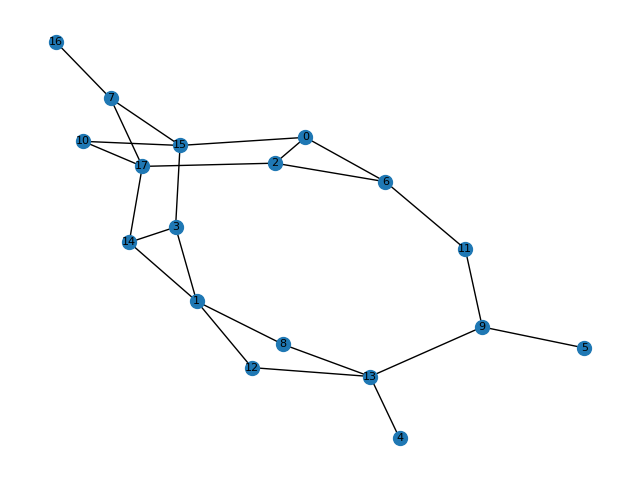
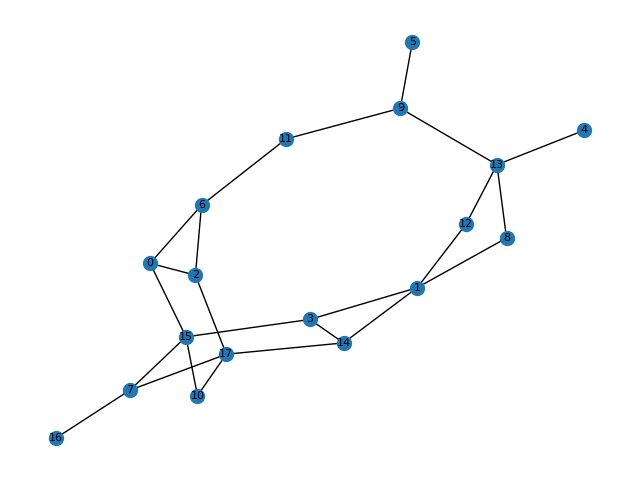
done

diff --git a/main.py b/main.py
@@ -267,7 +267,7 @@ for key, value in reversed(graphs.items()): # functions and os.makedirs() in tha
     """
 
     # print(-edge_crossings(ind), node_node_dist(ind)[0], node_node_dist(ind)[1], edge_length_var(ind), node_edge_dist(ind), edge_angle_var(ind))
-    return edge_crossings(ind),\
+    return -edge_crossings(ind),\
           -weights[0] * node_node_dist(ind)[0]\
           +weights[1] * node_node_dist(ind)[1]\
           -weights[2] * edge_length_var(ind)\
@@ -343,7 +343,7 @@ for key, value in reversed(graphs.items()): # functions and os.makedirs() in tha
   G.add_nodes_from(nodes)
   G.add_edges_from(edges)
 
-  # subfolder NEW-RESULTS/.../hof
+  # subfolder NEW-RESULTS/.../...
   best_individual = hof.items[0]
   best_layout = graph_layout(best_individual)
   nx.draw(G, pos=best_layout, with_labels=True, node_size=100, font_size=8)

diff --git a/README.md b/README.md
@@ -56,24 +56,26 @@ Description in Polish:
     * operator mutacji: mutGaussian, mu=0, sigma=1, indpb=0.2
     * metoda selekcji: selTournament(tournsize=3)
     * wagi w funkcji dopasowania:
-        * wariancja dlugosci krawedzi: 
-        * maksymalizacje minimalnej dlugosci wierzcholka od krawedzi POPRAWIC TO!
-        * wariancja odleglosci miedzy wierzcholkami:
-        * minimalna odleglosci miedzy wierzcholkami:
-        * minimalny kat miedzy krawedziami wychodzacymi z danego wierzcholka:
+        * wariancja odleglosci miedzy wierzcholkami: -1
+        * minimalna odleglosci miedzy wierzcholkami: +100
+        * wariancja dlugosci krawedzi: -100
+        * minimalna odleglosc wierzcholka od krawedzi: +1
+        * minimalny kat miedzy krawedziami wychodzacymi z danego wierzcholka: +100
 
+    Najlepszy wynik znajduje sie w folderze best-layout.
 
-    Ogolnie, algorytm lepiej sobie radzi przy malej populacji i duzej liczbie generacji. Bardzo duze znaczenie mialo rowniez dobranie
+    Ogolnie, algorytm lepiej sobie radzi przy malej populacji i duzej liczbie generacji. Bardzo duze znaczenie mialo rowniez dobranie odpowiednich wag w funkcji dopasowania. Oczywiscie, juz samo wprowadzenie dodatkowych parametrow, korzystajac z domyslnych wag, [1, 1, 1, 1, 1], mialo duzy wplyw na wyglad utworzonych grafow (wygladaly one znacznie lepiej niz z jedynm parametrem - liczba przeciec krawedzi), ale po przeprowadzeniu wielu eksperymentow, doszlismy do
+    kombinacji wag, ktora daje jeszcze lepsze rezultaty ([1, 100, 100, 1, 100]).
 
     Jako wynik ostateczny, bierzemy pierwszego osobnika z HallOfFame, czyli najlepszego osobnika z wszystkich generacji.
 
-    Wyniki dla innych konfiguracji umieszczone sa w folderach "OLD-RESULTS" i "NEW-RESULTS". W nazwie folderu sa wartosci kolejnych parametrow dla okreslonej konfiguracji. W srodku sa grafiki z rozlozeniami roznych grafow po wykonaniu algorytmu. Wyniki sprzed wykonania algorytmu (losowe rozlozenia grafu) i wyniki z gotowej biblioteki (NetworkX) dla porownania sa dostepne w folderach "random-layouts" i "nx-layouts".
+    Wyniki dla innych konfiguracji umieszczone sa w folderach "OLD-RESULTS" i "NEW-RESULTS" oraz "NEW-NEW-RESULTS". W nazwie folderu sa wartosci kolejnych parametrow dla okreslonej konfiguracji. W srodku sa grafiki z rozlozeniami roznych grafow po wykonaniu algorytmu. Wyniki sprzed wykonania algorytmu (losowe rozlozenia grafu) i wyniki z gotowej biblioteki (NetworkX) dla porownania sa dostepne w folderach "random-layouts" i "nx-layouts".
 
     Zdajemy sobie sprawe z tego, ze mozliwych kombinacji jest o wiele wiecej i ze pewnie nie osiagnelismy optimum. Czas wykonania algorytmu dla wszystkich grafow jest jednak na tyle dlugi, ze trzeba bylo sie w jakis sposob ograniczyc. Dlatego tez eksperymentowalismy glownie z roznymi rozmiarami populacji / iloscia generacji / funkcja dopasowania / pp. mutacji i krzyzowania, a operatory mutacji i krzyzowania dobralismy na samym poczatku i zostawili potem bez zmian.
 
 7. Wnioski:
 
-    Podsumowujac, program radzi sobie calkiem dobrze. Zalezy to oczywiscie od grafu, np. dla grafu "star" radzi sobie
+    Podsumowujac, program radzi sobie dobrze. Zalezy to oczywiscie od grafu, np. dla grafu "star" radzi sobie
     dosc slabo - nie ma przeciec, ale graf nie wyglada ladnie. To jest jednak prosty przypadek, dla ktorego latwo znalezc
     dobre rozwiazanie, korzystajac np. z biblioteki NetworkX i spring_layout() lub nawet rysujac graf samemu. typu. Dla grafow 
     bardzo latwych, typu "simple" lub "square3x3", radzi sobie bardzo dobrze, ale dobrze radzi sobie tez NetworkX i czlowiek 
